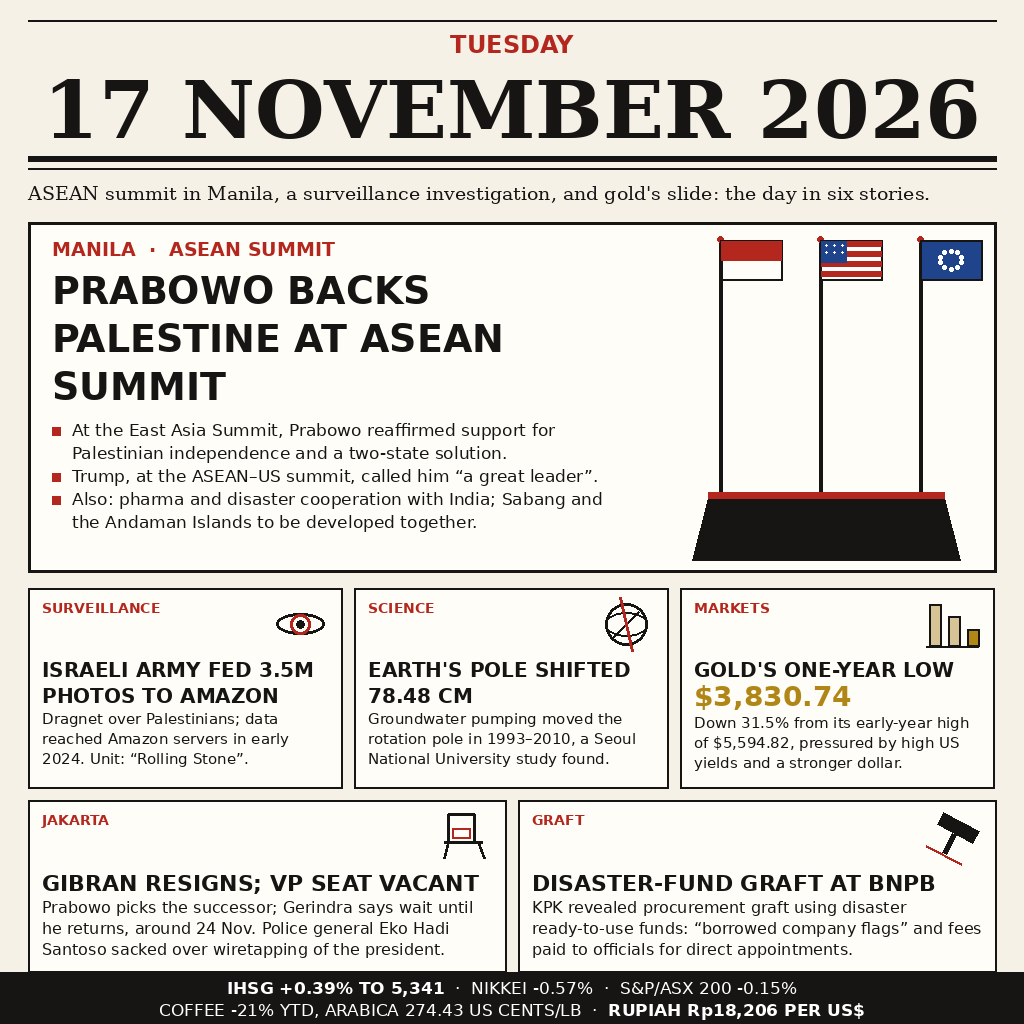
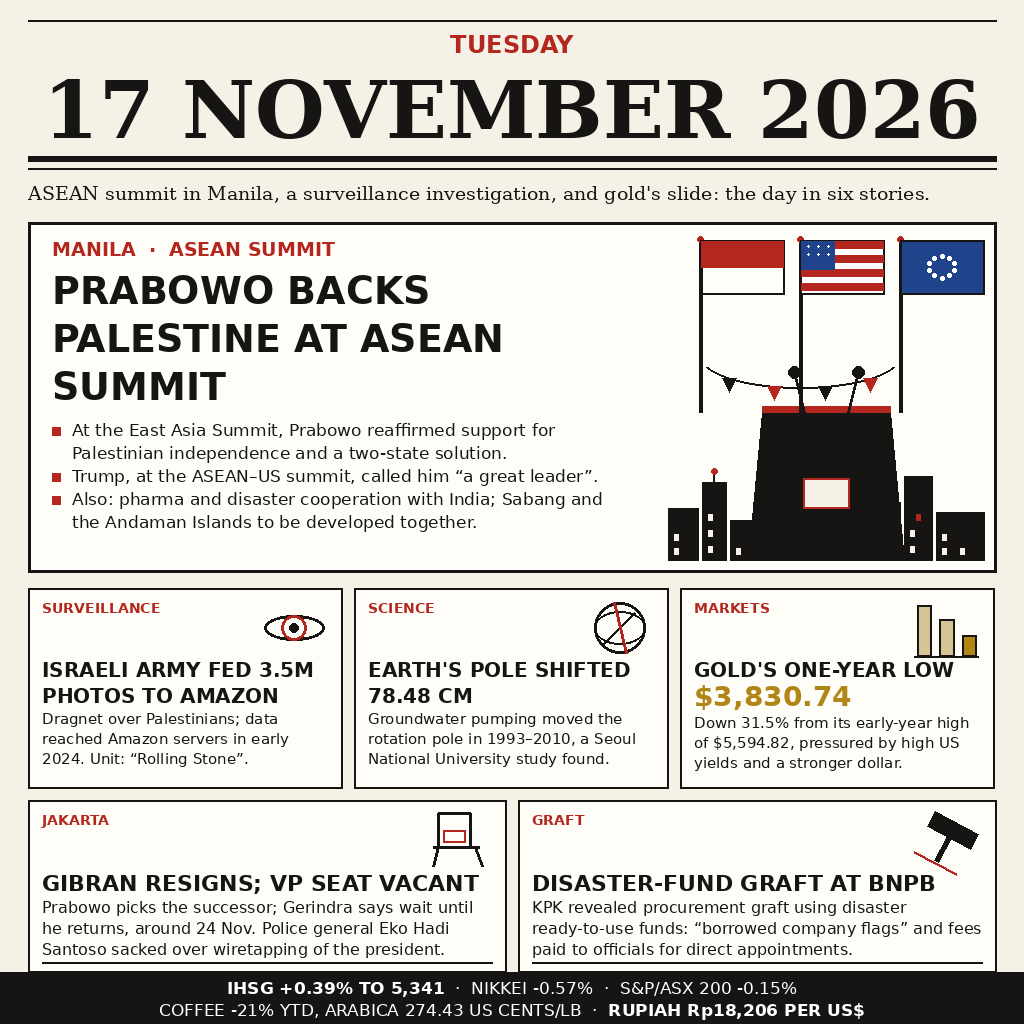
newsday v2: summit hero, bolder motifs, row-2 foot rule

diff --git a/tools/draw.py b/tools/draw.py
@@ -91,27 +91,30 @@ def fit_font(d, text, name, start, max_w):
 
 # ---------------------------------------------------------------- motifs
 def motif_eye(d, ox, oy, s=56):
+    cx, cy = ox + s / 2, oy + s / 2
+    r_out = s * 0.18
     d.ellipse([ox + 4, oy + s * 0.32, ox + s - 4, oy + s * 0.68],
               outline=INK, width=3)
-    d.ellipse([ox + s / 2 - 10, oy + s / 2 - 10, ox + s / 2 + 10, oy + s / 2 + 10],
+    d.ellipse([cx - r_out, cy - r_out, cx + r_out, cy + r_out],
               outline=RED, width=3)
-    d.ellipse([ox + s / 2 - 4, oy + s / 2 - 4, ox + s / 2 + 4, oy + s / 2 + 4],
-              fill=INK)
+    r_in = s * 0.07
+    d.ellipse([cx - r_in, cy - r_in, cx + r_in, cy + r_in], fill=INK)
 
 
 def motif_globe(d, ox, oy, s=56):
-    cx, cy, r = ox + s / 2, oy + s / 2, 21
+    cx, cy, r = ox + s / 2, oy + s / 2, s * 0.375
     d.ellipse([cx - r, cy - r, cx + r, cy + r], outline=INK, width=3)
     d.arc([cx - r, cy - r + 9, cx + r, cy + r - 9], 200, 340, fill=INK, width=2)
     d.arc([cx - r, cy - r + 9, cx + r, cy + r - 9], 20, 160, fill=INK, width=2)
-    d.line([cx - 13, cy + 13, cx + 13, cy - 13], fill=INK, width=2)
-    # tilt axis
-    d.line([cx - 6, cy - 27, cx + 6, cy + 27], fill=RED, width=3)
+    d.line([cx - r * 0.62, cy + r * 0.62, cx + r * 0.62, cy - r * 0.62],
+           fill=INK, width=2)
+    # tilt axis, kept short so it never reaches the headline below
+    d.line([cx - 6, cy - s * 0.38, cx + 6, cy + s * 0.38], fill=RED, width=3)
 
 
 def motif_bars(d, ox, oy, s=56):
-    bw, gap = 12, 7
-    heights = [42, 30, 17]
+    bw, gap = s * 0.21, s * 0.125
+    heights = [s * 0.75, s * 0.54, s * 0.30]
     x = ox + 5
     base = oy + s - 6
     for i, h in enumerate(heights):
@@ -123,16 +126,22 @@ def motif_bars(d, ox, oy, s=56):
 
 def motif_chair(d, ox, oy, s=56):
     # empty chair: back, seat, legs, one red cushion outline left empty
-    d.line([ox + 12, oy + 6, ox + 12, oy + 34], fill=INK, width=3)
-    d.line([ox + 12, oy + 6, ox + 38, oy + 6], fill=INK, width=3)
-    d.line([ox + 38, oy + 6, ox + 38, oy + 34], fill=INK, width=3)
-    d.line([ox + 8, oy + 34, ox + 46, oy + 34], fill=INK, width=3)
-    d.line([ox + 12, oy + 34, ox + 8, oy + 50], fill=INK, width=3)
-    d.line([ox + 42, oy + 34, ox + 48, oy + 50], fill=INK, width=3)
-    d.rectangle([ox + 16, oy + 20, ox + 34, oy + 30], outline=RED, width=2)
+    k = s / 56
+    def X(v):
+        return ox + v * k
+    def Y(v):
+        return oy + v * k
+    d.line([X(12), Y(6), X(12), Y(34)], fill=INK, width=3)
+    d.line([X(12), Y(6), X(38), Y(6)], fill=INK, width=3)
+    d.line([X(38), Y(6), X(38), Y(34)], fill=INK, width=3)
+    d.line([X(8), Y(34), X(46), Y(34)], fill=INK, width=3)
+    d.line([X(12), Y(34), X(8), Y(50)], fill=INK, width=3)
+    d.line([X(42), Y(34), X(48), Y(50)], fill=INK, width=3)
+    d.rectangle([X(16), Y(20), X(34), Y(30)], outline=RED, width=2)
 
 
 def motif_gavel(d, ox, oy, s=56):
+    k = s / 56
     def rot(px, py, cx, cy, deg):
         a = math.radians(deg)
         dx, dy = px - cx, py - cy
@@ -140,38 +149,78 @@ def motif_gavel(d, ox, oy, s=56):
                 cy + dx * math.sin(a) + dy * math.cos(a))
 
     cx, cy = ox + s / 2, oy + s / 2
-    head = [(ox + 8, oy + 12), (ox + 48, oy + 12), (ox + 48, oy + 26),
-            (ox + 8, oy + 26)]
+    head = [(ox + 8 * k, oy + 12 * k), (ox + 48 * k, oy + 12 * k),
+            (ox + 48 * k, oy + 26 * k), (ox + 8 * k, oy + 26 * k)]
     d.polygon([rot(x, y, cx, cy, 28) for x, y in head], fill=INK)
-    hx1, hy1 = rot(ox + 28, oy + 26, cx, cy, 28)
-    hx2, hy2 = rot(ox + 28, oy + 48, cx, cy, 28)
+    hx1, hy1 = rot(ox + 28 * k, oy + 26 * k, cx, cy, 28)
+    hx2, hy2 = rot(ox + 28 * k, oy + 48 * k, cx, cy, 28)
     d.line([hx1, hy1, hx2, hy2], fill=INK, width=5)
-    bx1, by1 = rot(ox + 8, oy + 50, cx, cy, 28)
-    bx2, by2 = rot(ox + 48, oy + 50, cx, cy, 28)
+    bx1, by1 = rot(ox + 8 * k, oy + 50 * k, cx, cy, 28)
+    bx2, by2 = rot(ox + 48 * k, oy + 50 * k, cx, cy, 28)
     d.line([bx1, by1, bx2, by2], fill=RED, width=3)
 
 
 def motif_flags_podium(d, x0, y0, x1, y1):
-    """Three flags above a podium. Zone: x0..x1, y0..y1."""
-    poles = [x0 + 52, x0 + 152, x0 + 252]
-    top, base = y0 + 8, y1 - 64
+    """Summit scene: three large flags, bunting between the poles, a
+    lectern with two microphones, and a Manila skyline silhouette
+    flanking it. Zone: x0..x1, y0..y1. Flat vector, ink/red/blue only."""
+    cx = (x0 + x1) // 2
+    base = y1 - 2
+    lect_top = y1 - 150
+
+    # --- skyline silhouette along the bottom (x, width, height) ---
+    buildings = [(0, 30, 52), (34, 24, 78), (62, 34, 40), (100, 32, 96),
+                 (136, 28, 62), (168, 32, 88), (204, 28, 58), (236, 28, 84),
+                 (268, 48, 48)]
+    for bx, bw, bh in buildings:
+        d.rectangle([x0 + bx, base - bh, x0 + bx + bw, base], fill=INK)
+    # lit windows, paper on the visible towers only
+    for bx, by, wx in [(6, 12, 8), (6, 26, 8), (40, 14, 8), (40, 30, 8),
+                       (40, 46, 8), (68, 12, 8), (242, 14, 8), (242, 30, 8),
+                       (274, 12, 8), (274, 26, 8), (292, 12, 8)]:
+        d.rectangle([x0 + bx, base - by, x0 + bx + 4, base - by + 6],
+                    fill=PAPER)
+    # one red window on the right tower, antenna on the left tower
+    d.rectangle([x0 + 248, base - 46, x0 + 252, base - 40], fill=RED)
+    d.line([x0 + 46, base - 78, x0 + 46, base - 88], fill=INK, width=2)
+    d.ellipse([x0 + 43, base - 92, x0 + 49, base - 86], fill=RED)
+
+    # --- lectern, narrower than the flag span so the skyline shows ---
+    d.polygon([(cx - 64, lect_top), (cx + 64, lect_top),
+               (cx + 78, base), (cx - 78, base)], fill=INK)
+    d.rectangle([cx - 64, lect_top - 6, cx + 64, lect_top], fill=RED)
+    # blank paper nameplate on the lectern front
+    d.rectangle([cx - 23, lect_top + 66, cx + 23, lect_top + 96],
+                fill=PAPER, outline=RED, width=2)
+    # two microphones rising from the lectern top
+    for sgn in (-1, 1):
+        d.line([cx + sgn * 22, lect_top, cx + sgn * 32, lect_top - 40],
+               fill=INK, width=3)
+        d.ellipse([cx + sgn * 32 - 6, lect_top - 46, cx + sgn * 32 + 6,
+                   lect_top - 34], fill=INK)
+
+    # --- three large flags on poles behind the lectern ---
+    poles = [x0 + 32, x0 + 132, x0 + 232]
+    top = y0 + 8
+    fw, fh = 84, 54
     for px in poles:
-        d.line([px, top, px, base], fill=INK, width=4)
+        d.line([px, top, px, lect_top], fill=INK, width=4)
         d.ellipse([px - 3, top - 4, px + 3, top + 2], fill=RED)
-    fw, fh = 62, 40
     # Indonesia: red over white
     d.rectangle([poles[0], top, poles[0] + fw, top + fh], outline=INK, width=2)
-    d.rectangle([poles[0] + 1, top + 1, poles[0] + fw - 1, top + fh // 2], fill=RED)
+    d.rectangle([poles[0] + 1, top + 1, poles[0] + fw - 1, top + fh // 2],
+                fill=RED)
     # United States: stripes + canton
     d.rectangle([poles[1], top, poles[1] + fw, top + fh], fill=(255, 255, 255),
                 outline=INK, width=2)
     for i in range(0, 7, 2):
         d.rectangle([poles[1] + 1, top + 1 + i * (fh // 7),
-                     poles[1] + fw - 1, top + 1 + (i + 1) * (fh // 7)], fill=RED)
-    d.rectangle([poles[1] + 1, top + 1, poles[1] + 26, top + fh // 2 + 2],
+                     poles[1] + fw - 1, top + 1 + (i + 1) * (fh // 7)],
+                    fill=RED)
+    d.rectangle([poles[1] + 1, top + 1, poles[1] + 34, top + fh // 2 + 2],
                 fill=BLUE)
-    for dx in (6, 14, 22):
-        for dy in (5, 12):
+    for dx in (8, 18, 28):
+        for dy in (6, 14):
             d.ellipse([poles[1] + dx - 1, top + dy - 1,
                        poles[1] + dx + 1, top + dy + 1], fill=(255, 255, 255))
     # ASEAN: blue field, white ring of ten dots
@@ -180,13 +229,18 @@ def motif_flags_podium(d, x0, y0, x1, y1):
     ccx, ccy = poles[2] + fw // 2, top + fh // 2
     for k in range(10):
         a = math.radians(k * 36 - 90)
-        d.ellipse([ccx + 11 * math.cos(a) - 2, ccy + 9 * math.sin(a) - 2,
-                   ccx + 11 * math.cos(a) + 2, ccy + 9 * math.sin(a) + 2],
+        d.ellipse([ccx + 13 * math.cos(a) - 2, ccy + 11 * math.sin(a) - 2,
+                   ccx + 13 * math.cos(a) + 2, ccy + 11 * math.sin(a) + 2],
                   fill=(255, 255, 255))
-    # lectern spanning all three poles, so none dangles
-    d.polygon([(x0 + 40, base), (x1 - 40, base), (x1 - 24, y1 - 2),
-               (x0 + 24, y1 - 2)], fill=INK)
-    d.rectangle([x0 + 40, base - 6, x1 - 40, base], fill=RED)
+    # bunting sagging between the outer poles
+    d.arc([poles[0], top + 84, poles[2], top + 148], 20, 160, fill=INK,
+          width=2)
+    for k, a in enumerate((45, 75, 105, 135)):
+        ar = math.radians(a)
+        px = 800 + 100 * math.cos(ar)
+        py = top + 116 + 32 * math.sin(ar)
+        d.polygon([(px - 7, py), (px + 7, py), (px, py + 14)],
+                  fill=RED if k % 2 == 0 else INK)
 
 
 # ---------------------------------------------------------------- page
@@ -244,13 +298,16 @@ def render():
     w2 = (CW - gap) // 2              # 477
 
     def panel(x0, y0, w, h, kicker, headline, deck, motif, big=None,
-              head_size=20, deck_size=15):
+              head_size=20, deck_size=15, foot_rule=False):
         d.rectangle([x0, y0, x0 + w, y0 + h], fill=PANEL, outline=INK, width=2)
+        if foot_rule:
+            d.line([x0 + 14, y0 + h - 10, x0 + w - 14, y0 + h - 10],
+                   fill=INK, width=2)
         px, py = x0 + 14, y0 + 12
         f_k = font(SANS_B, 14)
         d.text((px, py), kicker, font=f_k, fill=RED)
         if motif:
-            motif(d, x0 + w - 14 - 56, y0 + 8)
+            motif(d, x0 + w - 14 - 68, y0 + 6, s=68)
         f_h = font(SANS_B, head_size)
         y = block(d, px, py + 58, headline, f_h, INK, w - 28,
                   head_size + 6, y0 + h - 70, tag=f"headline {kicker}")
@@ -284,13 +341,13 @@ def render():
           "Prabowo picks the successor; Gerindra says wait until he returns, "
           "around 24 Nov. Police general Eko Hadi Santoso sacked over "
           "wiretapping of the president.", motif_chair,
-          head_size=22, deck_size=16)
+          head_size=22, deck_size=16, foot_rule=True)
     panel(gx0 + w2 + gap, y2, w2, row2_h, "GRAFT",
           "DISASTER-FUND GRAFT AT BNPB",
           "KPK revealed procurement graft using disaster ready-to-use funds: "
           "\u201cborrowed company flags\u201d and fees paid to officials for "
           "direct appointments.", motif_gavel,
-          head_size=22, deck_size=16)
+          head_size=22, deck_size=16, foot_rule=True)
 
     # ---- ticker strip ----
     ty0 = 972
